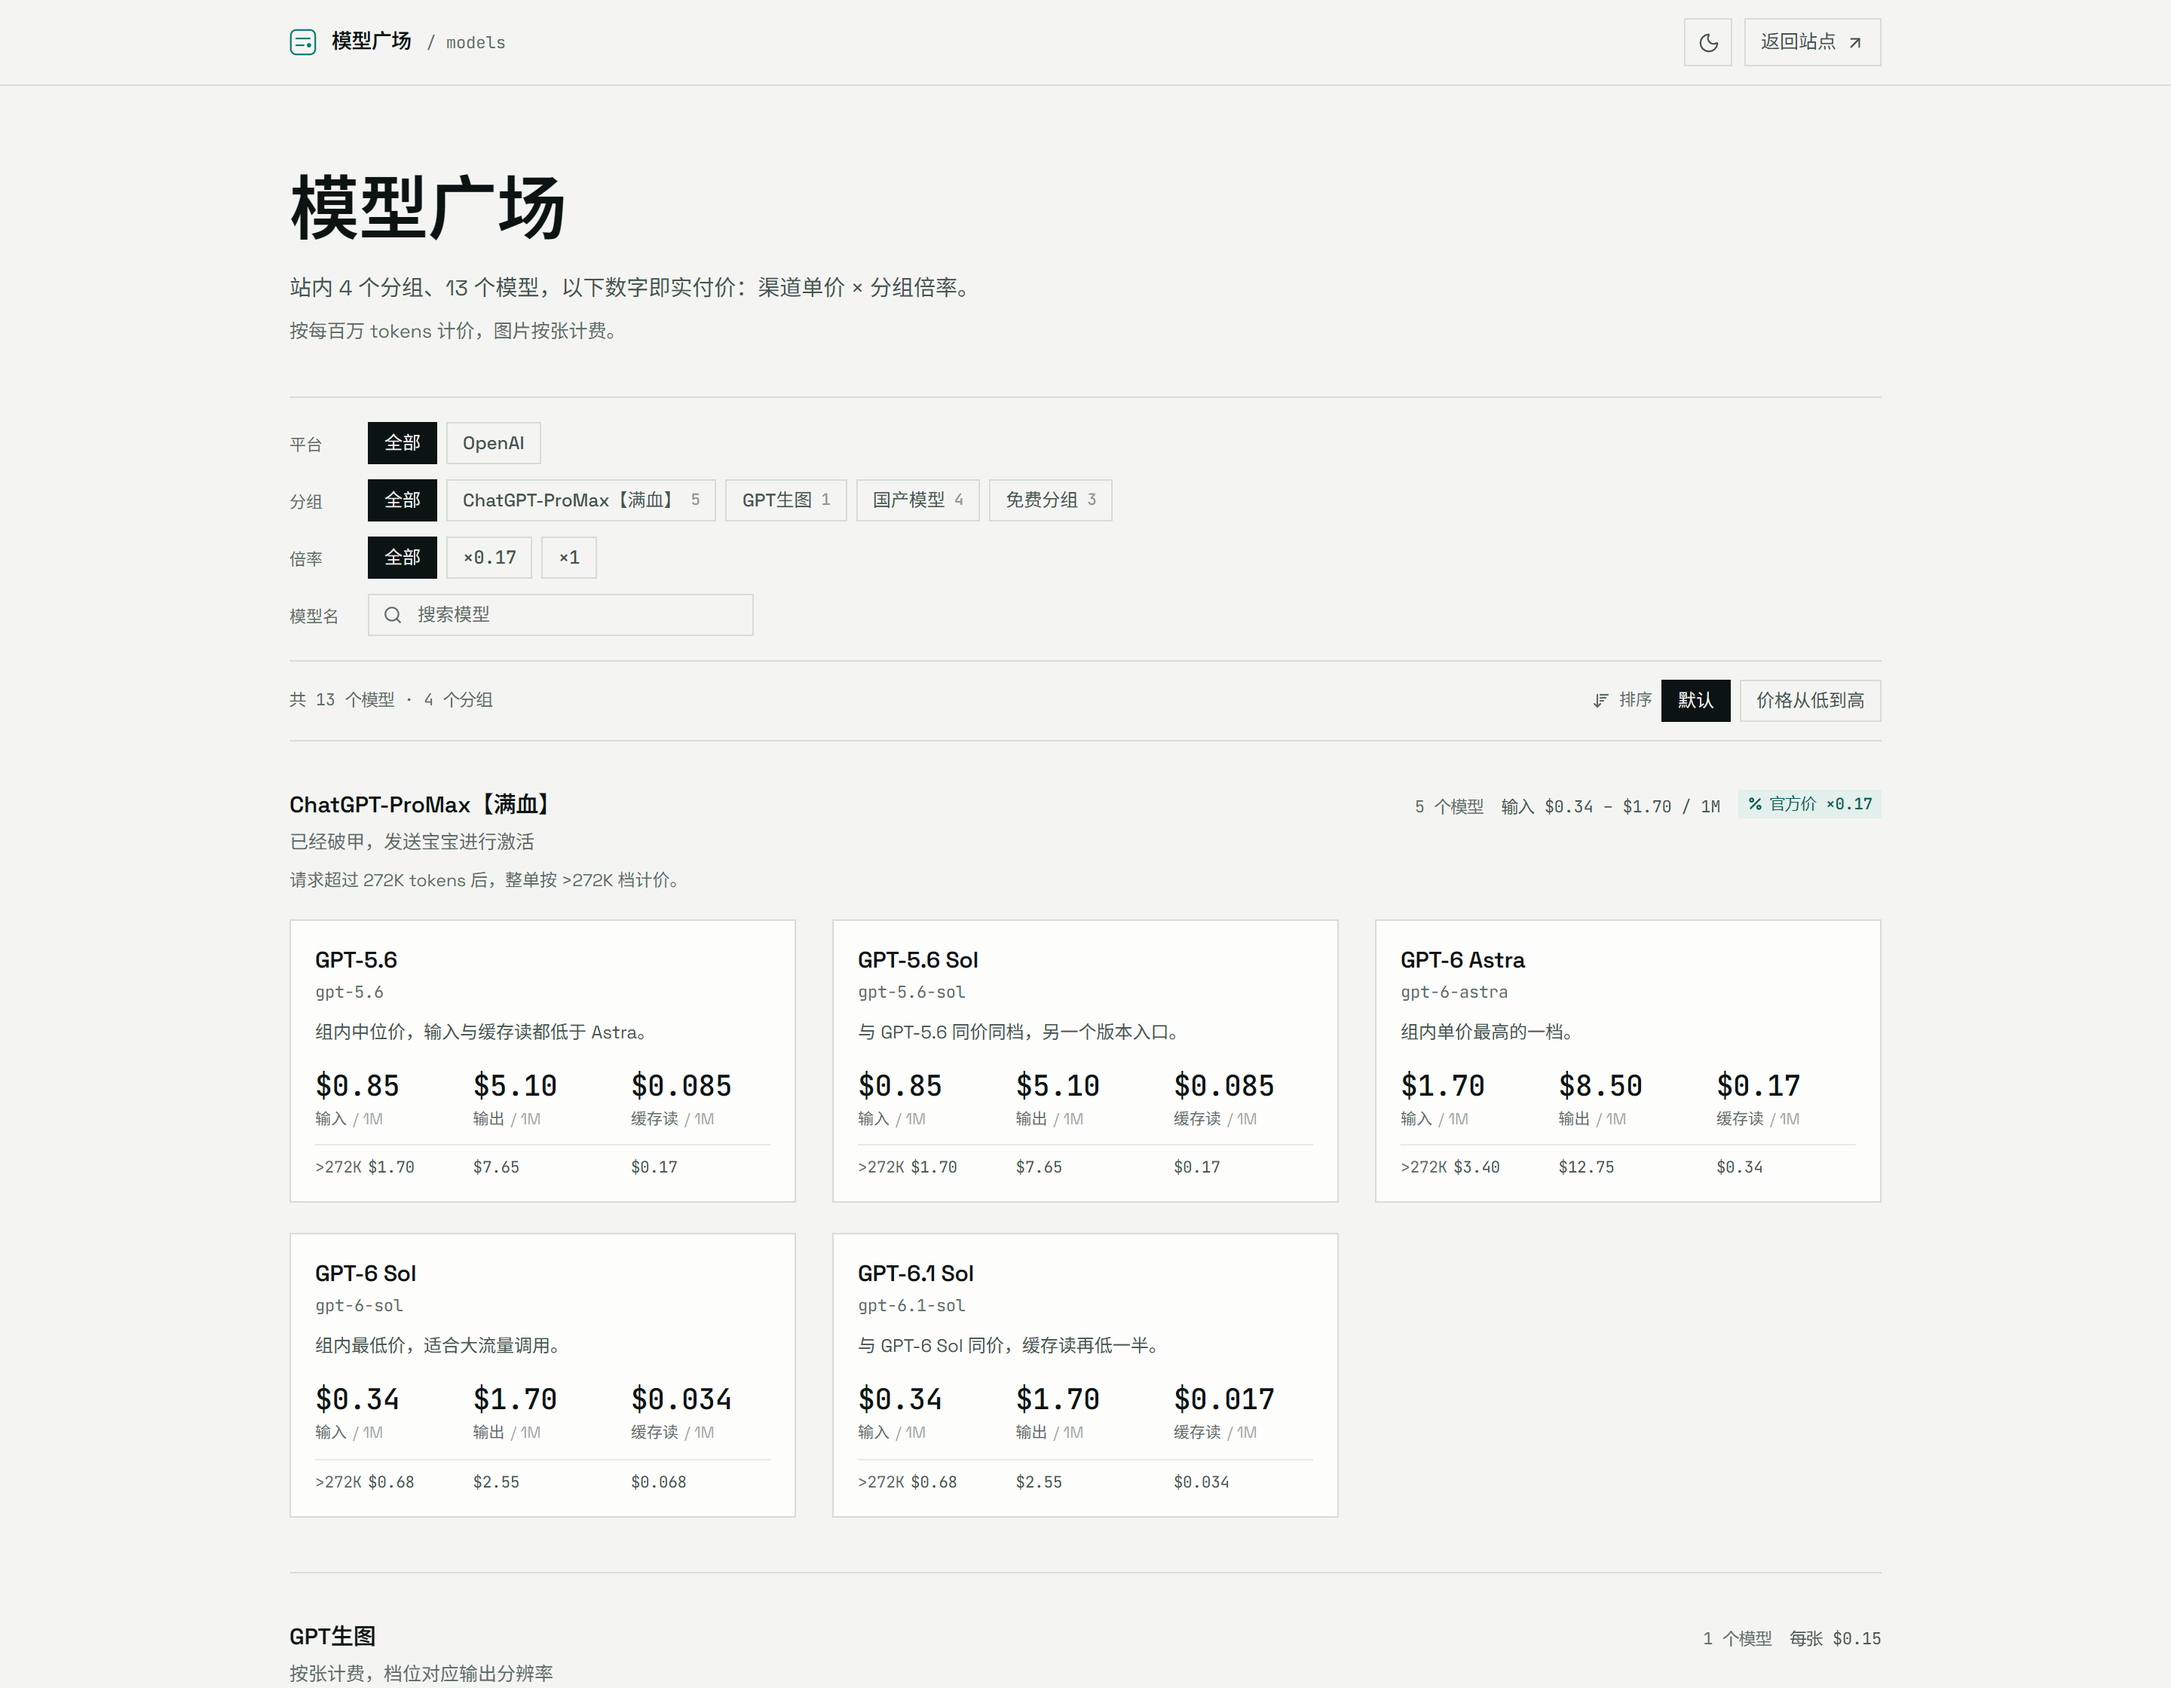
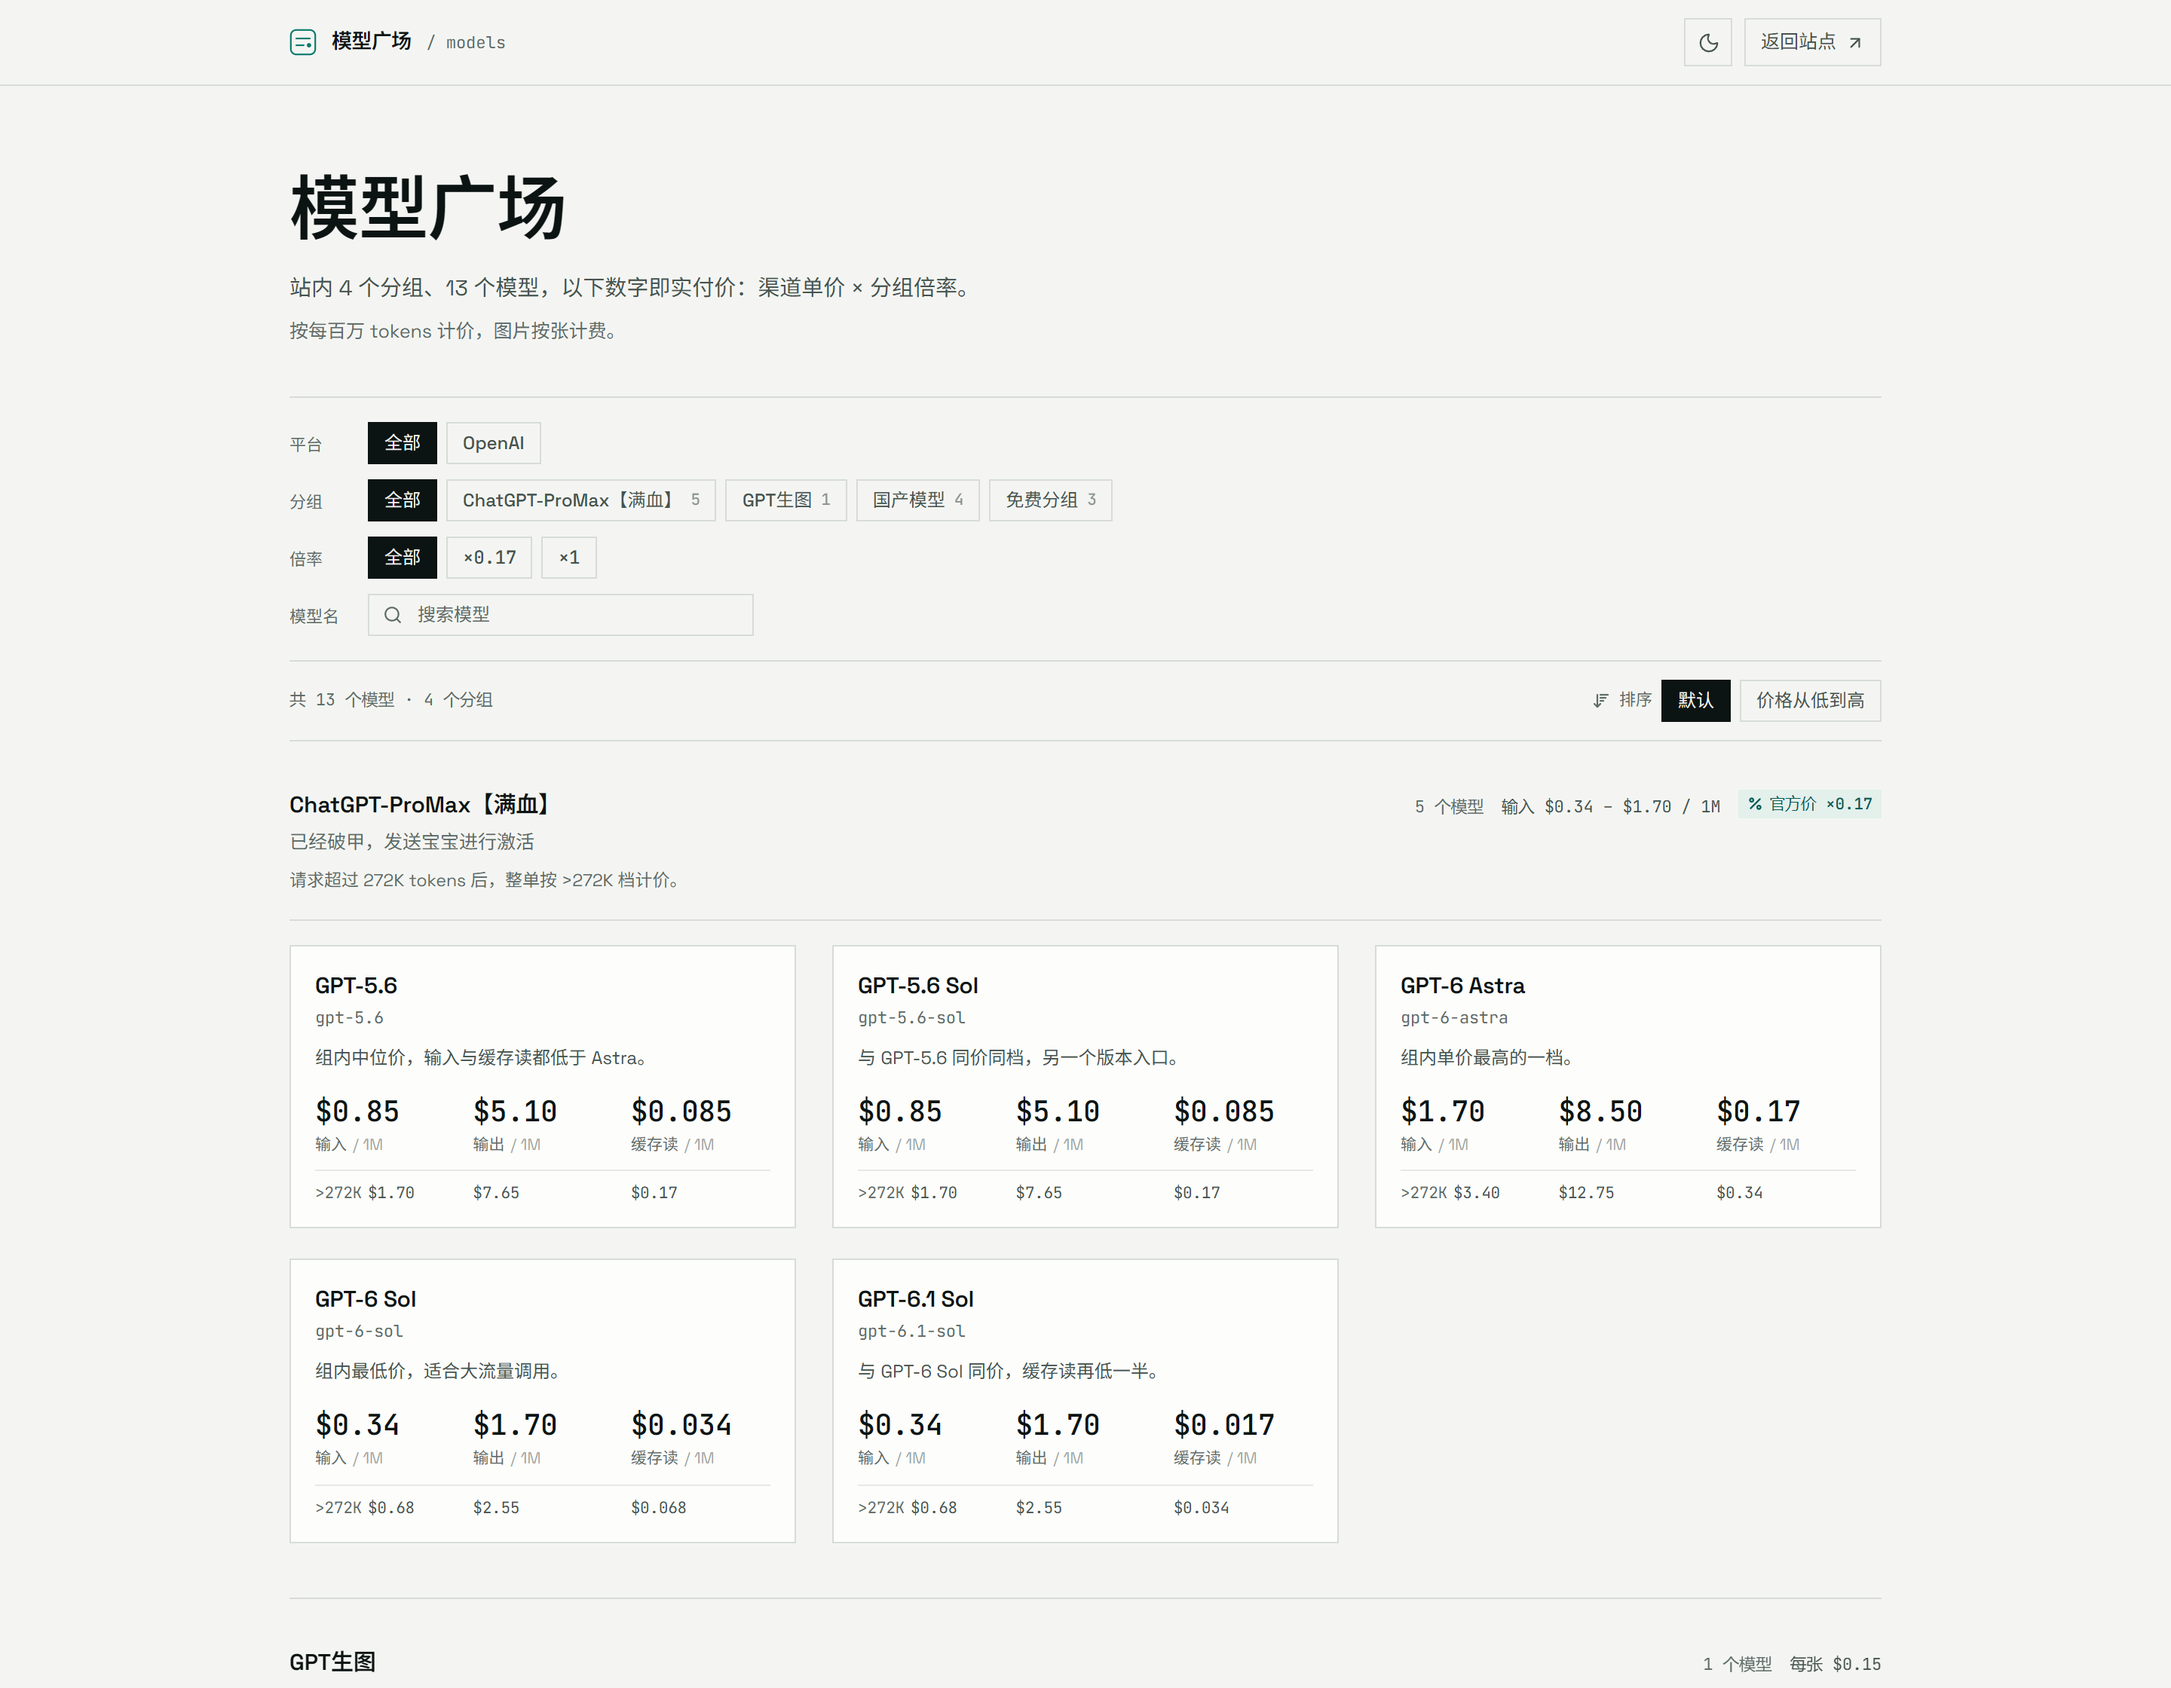
fix(plaza): close each group header with a hairline
A sticky header with an opaque paper background cut the top border off any
card scrolling beneath it. Measured at 1440x900: at rest the header bottom and
the first card's top edge sat at the same y (610.1), so nothing looked wrong;
at scroll 460 the pinned header ended at 174.6 while the card began at 150.1 —
24.5px of the card's frame hidden, and further down the page 64.5px and
124.5px. The border was never missing, only covered.

With a list that read as "one long block being clipped". With cards it reads
as a missing edge: the top rule is the only thing that says "this is a card",
so once it disappears the two side rules are left hanging in mid-air.

The header now ends in border-b, which does the same job in both states. Pinned
it is the line the cards slide under, so a card passing beneath reads as going
behind an edge rather than losing one. At rest it separates the header from the
grid — hence pt-4 on the grid, so cards start 16px below it instead of touching
the rule.

Verified at 1440x900: header border-bottom 1px rgb(215,220,215), header bottom
611.1, first card top 627.1 (gap 16); pinned at scroll 500 the header ends at
175.6 with the card top at 127.1, sliding under cleanly. Pixel check on the
regenerated docs shot confirms both rules: y=842 is the header line, y=876 the
card's own top edge, 17 CSS px apart.

diff --git a/src/components/GroupSection.tsx b/src/components/GroupSection.tsx
@@ -11,6 +11,12 @@ import { ModelCard } from './ModelCard'
  * phone the description wraps tall enough that a pinned header would eat the
  * viewport, so it scrolls normally there.
  *
+ * The header closes with a hairline. Pinned, it is the rule the cards slide
+ * under — without it a card passing beneath the opaque header looks like it has
+ * lost its top border and is left hanging by its two side rules. At rest the
+ * same rule separates the header from the grid, which is why the grid starts
+ * 16px below it instead of touching it.
+ *
  * The models below it are cards, three to a row on a desktop. Each group keeps
  * its own grid, so a group whose model count is not a multiple of three leaves
  * empty cells at the end of its last row. Letting cards flow across group
@@ -23,7 +29,7 @@ export function GroupSection({ group }: { group: PlazaGroup }) {
 
   return (
     <section id={`g${group.id}`} className="border-t border-rule">
-      <header className="flex flex-wrap items-baseline justify-between gap-x-6 gap-y-2 bg-paper pt-8 pb-4 sm:sticky sm:top-14 sm:z-10">
+      <header className="flex flex-wrap items-baseline justify-between gap-x-6 gap-y-2 border-b border-rule bg-paper pt-8 pb-4 sm:sticky sm:top-14 sm:z-10">
         <div className="min-w-0">
           <h2 className="text-[15px] font-semibold tracking-[-0.006em] text-ink">{group.name}</h2>
           {group.description ? (
@@ -50,7 +56,7 @@ export function GroupSection({ group }: { group: PlazaGroup }) {
         </div>
       </header>
 
-      <div className="grid gap-x-6 gap-y-5 sm:grid-cols-2 lg:grid-cols-3">
+      <div className="grid gap-x-6 gap-y-5 pt-4 sm:grid-cols-2 lg:grid-cols-3">
         {group.models.map((model) => (
           <ModelCard key={model.name} group={group} model={model} />
         ))}

diff --git a/HANDOFF.md b/HANDOFF.md
@@ -217,7 +217,10 @@ npm run fonts     # 改过中文文案后重跑（见第 7 节）
 
 ### 响应式
 
-- 组头 `sm` 以上吸顶（`sm:sticky sm:top-14`），手机不吸顶——390px 下组头换行到 114px，会吃掉视口
+- 组头 `sm` 以上吸顶（`sm:sticky sm:top-14`），手机不吸顶——390px 下组头换行到 114px，会吃掉视口。
+组头自带一条 `border-b`：吸顶时它是卡片滑下去的那条边（没有它，卡片从组头下面经过时顶边消失、
+只剩两条竖边悬着，像被削了顶）；静止时它是组头与网格之间的分隔线，所以网格从它下面 16px
+（`pt-4`）开始，不贴着线。
 - 卡片：`<sm` 1 列 / `sm` 2 列 / `lg` 3 列；卡内价格始终三列，不折叠
 - 640px（2 列最窄处）实测列宽 73px，`$0.085` 与 `>272K $1.70` 都不裁切
 

diff --git a/README.md b/README.md
@@ -42,6 +42,10 @@ Sub2API 站的模型价目表。**价格全部硬编码在 `src/data/catalog.ts`
 挂着的信息就是「这是哪个分组」。手机上组头说明会换行到 100px 以上，吸住会吃掉视口，
 所以小屏让它正常滚走。
 
+组头底下压一条发丝线。吸顶之后这条线就是卡片滑下去的那条边——没有它，卡片从组头下面经过时
+顶部边框会消失，只剩两条竖边悬在空中，看着像被削掉了顶；静止时它则充当组头与网格之间的
+分隔线，网格从它下面 16px 开始。
+
 组内每个模型一张卡片，三列排布（`sm` 两列、`lg` 三列）：模型名 → mono slug → 一行说明 → 价格。
 
 卡片是 `bg-sheet` 压在 `bg-paper` 上的另一张纸：直角、1px 发丝线描边、无阴影无渐变。
